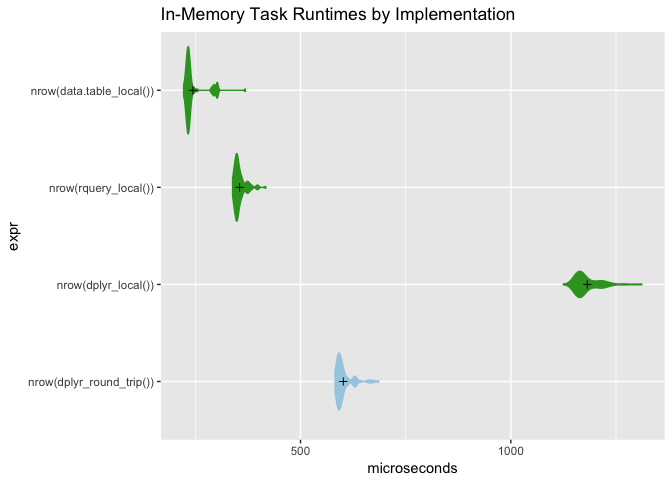
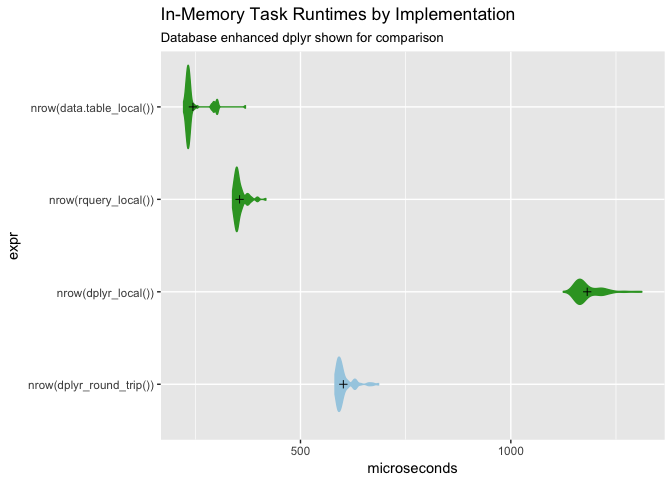
edit

diff --git a/extras/plotexample.md b/extras/plotexample.md
@@ -25,7 +25,9 @@ colormap = runs := c(highlightcolor,
 
 tr <- timings[timings$expr %in% runs, , drop=FALSE]
 tr$expr <- factor(tr$expr, levels = rev(runs))
-plotbenchmark(tr, colormap, "In-Memory Task Runtimes by Implementation")
+plotbenchmark(tr, colormap, 
+              title = "In-Memory Task Runtimes by Implementation",
+              subtitle = "Database enhanced dplyr shown for comparison")
 ```
 
 ![](plotexample_files/figure-markdown_github/unnamed-chunk-1-1.png)
